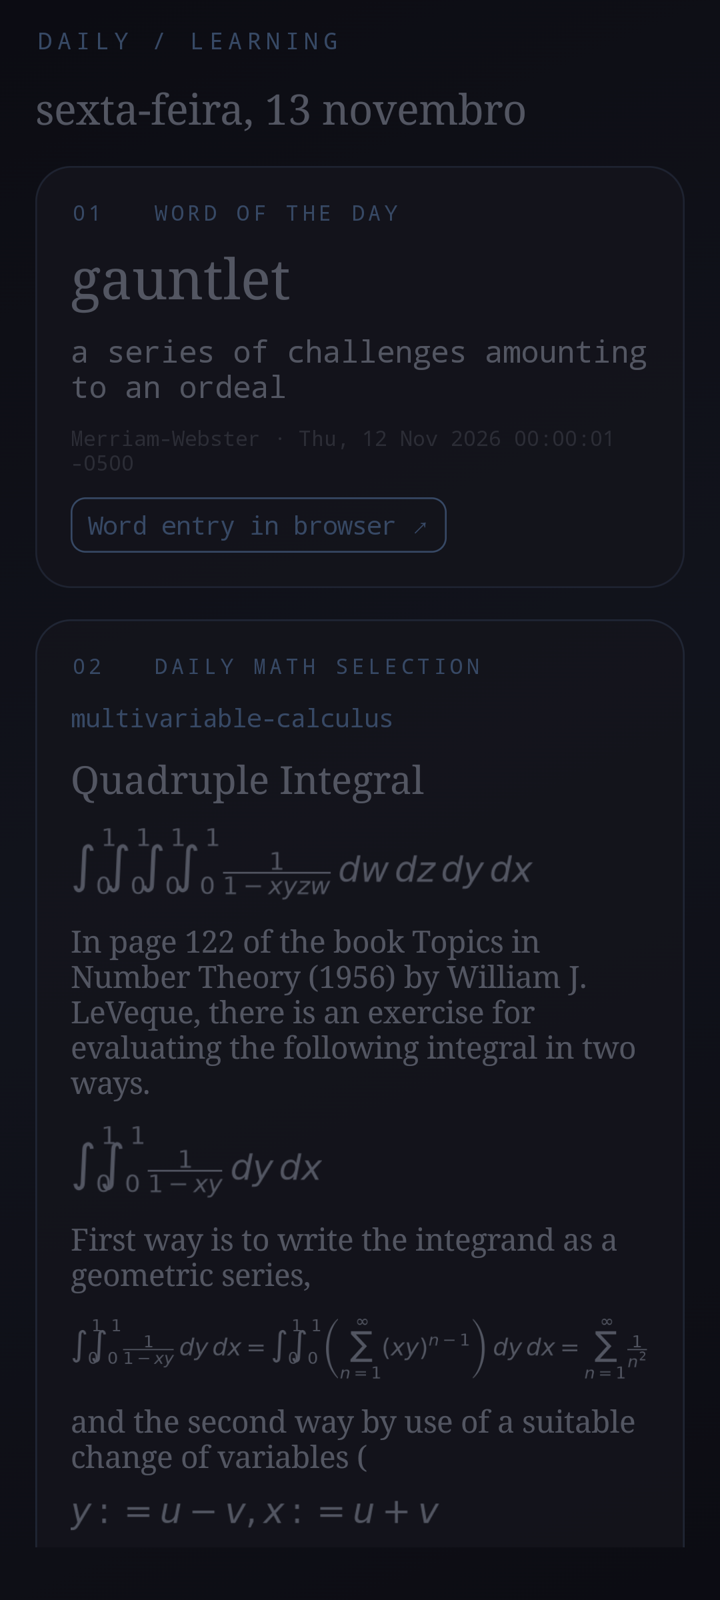
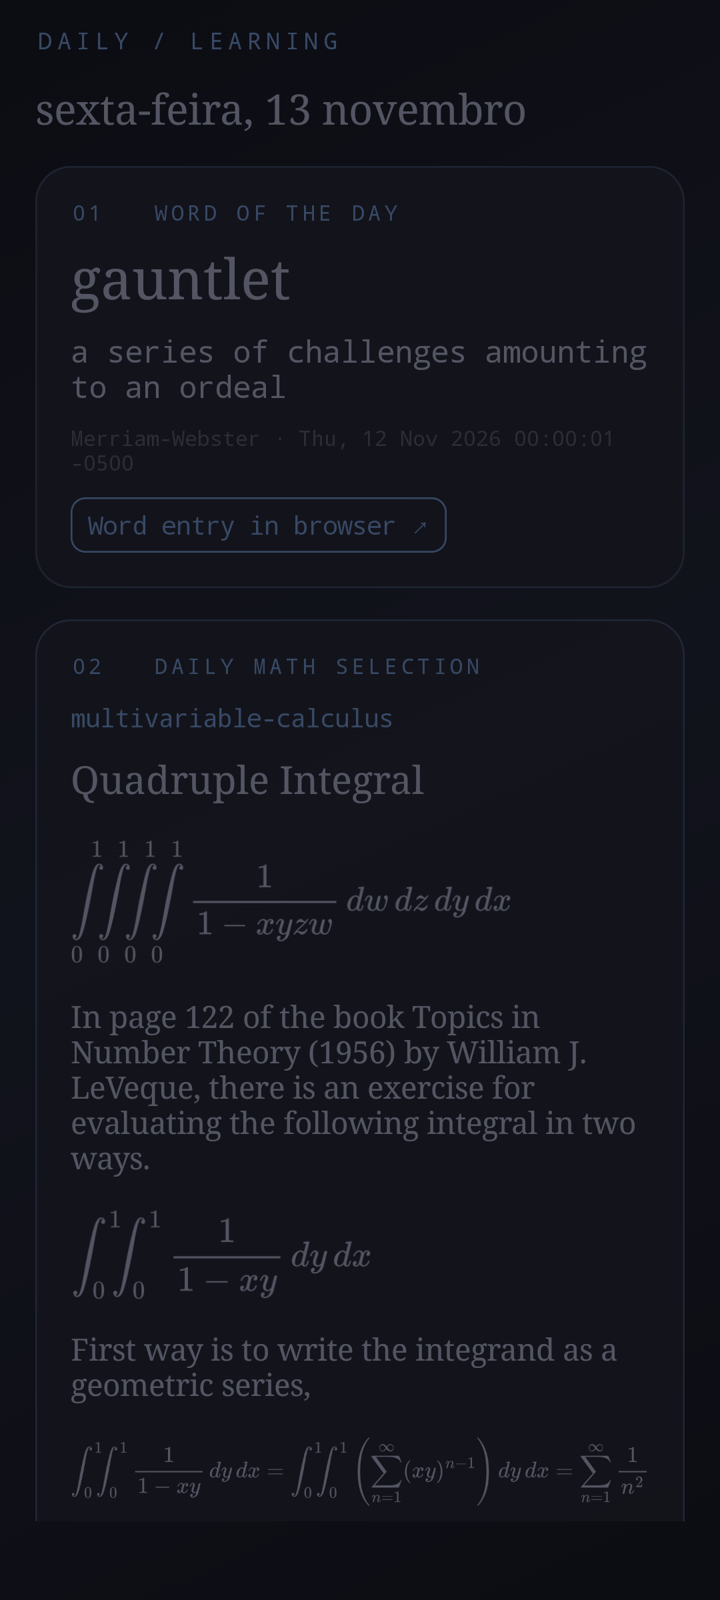
Typeset Daily learning equations with MathJax and preserve TeX spacing (#460)

diff --git a/faces/virrann/daily-learning/README.md b/faces/virrann/daily-learning/README.md
@@ -2,13 +2,15 @@
 
 A full-page OWL face with Merriam-Webster's word of the day and a daily selection of sourced college mathematics problems from Mathematics Stack Exchange. Scroll to see diagrams, attribution and links to the original entry or solution. Colors follow the launcher theme.
 
-Requires Arch Linux with `python` and `python-matplotlib`, both declared in `requires` and installed through pacman. All executable code is included in `face.owl`: no Node.js, npm, pip, external helper scripts or downloaded code. The inline Python command fetches the two public sources and caches their responses and generated formula images in `~/.cache/daily-learning` for offline reading. No account or API key is needed. A failed refresh keeps previously cached content and shows an error. The refresh button retries failed requests; successfully cached selections remain fixed for the day.
+Requires Arch Linux with `nodejs` and `npm`, both declared in `requires` and installed through pacman. All helper code and a pinned npm lockfile are embedded in `face.owl`; no separately copied scripts, account or API key are needed. On first use, the inline command runs `npm ci --ignore-scripts` to install `mathjax-full` 3.2.1 and `sharp` 0.35.5, with their integrity-checked dependencies from registry.npmjs.org, into a versioned directory under `~/.cache/daily-learning`. This initial setup needs an internet connection and can take a few minutes. npm lifecycle scripts, audit and funding requests are disabled. Later refreshes reuse that installation.
 
-Equations are rendered locally with Matplotlib MathText as transparent PNG masks. OWL applies the current theme foreground at display time, so cached images also follow theme changes. MathText supports a subset of LaTeX: unsupported expressions remain visible as source TeX, with a notice linking readers to full typesetting and community answers. A failed equation does not hide the rest of the content. Wide expressions scale to the card width. Math selections rotate among geometry, calculus, linear algebra, differential equations, integration and optimization.
+The face fetches Merriam-Webster and Mathematics Stack Exchange and caches their responses and generated formula images in `~/.cache/daily-learning` for offline reading after initial setup. A failed refresh keeps previously cached content and shows an error. The refresh button retries failed requests; successfully cached selections remain fixed for the day.
+
+Equations use MathJax's TeX-to-SVG layout and are rasterized locally with sharp as transparent PNG masks, placed between the original text passages. TeX spacing and grouping are preserved, with no MathText substitutions, manual line splitting or zoom interface. OWL applies the active theme foreground at display time, so cached images follow subsequent theme changes. Wide expressions scale to the card width. A rendering or setup error leaves the source text and source link available. Math selections rotate among geometry, calculus, linear algebra, differential equations, integration and optimization.
 
 ## Content attribution
 
-The MIT license below applies to this face's code, not to fetched third-party content. Word entries belong to Merriam-Webster. Mathematics Stack Exchange contributions retain their original authors and Creative Commons licenses, displayed in the face alongside the source link. MathText rendering and source-TeX fallbacks modify formatting; diagrams remain linked to their original hosts.
+The MIT license below applies to this face's code, not to fetched third-party content. Word entries belong to Merriam-Webster. Mathematics Stack Exchange contributions retain their original authors and Creative Commons licenses, displayed in the face alongside the source link. Local typesetting modifies formatting; diagrams remain linked to their original hosts.
 
 ## MIT License
 
